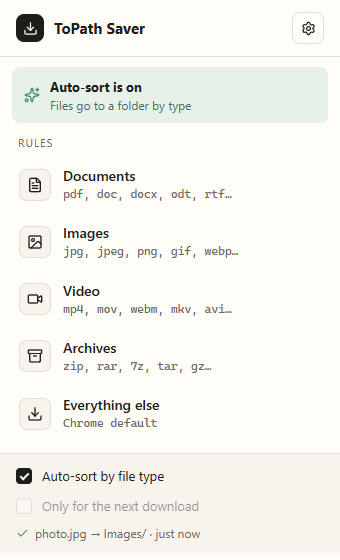
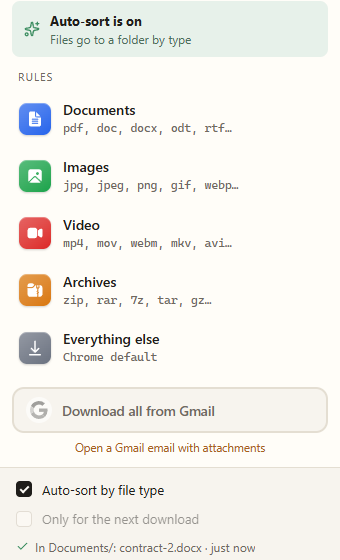
W3-FIX: verified on Windows, screenshots

diff --git a/.bro/state.js b/.bro/state.js
@@ -2,17 +2,17 @@ window.BRO_STATE = {
     "project":  "topath-saver",
     "ver":  "v3.0",
     "mode":  "JOIN",
-    "updated":  "2026-10-13 00:34",
-    "wave":  "W2-RELEASE",
-    "current":  "Авторы и релиз",
-    "turn":  "analyst",
-    "turn_text":  "🧠 аналитик",
-    "todo":  "напиши аналитику: BRO CHECK",
-    "next_stop":  "🛑 Авторы и релиз — сейчас",
-    "done":  2,
-    "total":  5,
-    "pct":  40,
-    "bar":  "▰▰▰▱▱▱▱▱",
+    "updated":  "2026-10-13 02:38",
+    "wave":  "W3-FIX",
+    "current":  "Фикс + Gmail 0.2.0",
+    "turn":  "coder",
+    "turn_text":  "🤖 кодер",
+    "todo":  "ничего — ждём «Готово» от кодера",
+    "next_stop":  "🛑 Фикс + Gmail 0.2.0 — сейчас",
+    "done":  3,
+    "total":  6,
+    "pct":  50,
+    "bar":  "▰▰▰▰▱▱▱▱",
     "road":  [
                  {
                      "id":  "W0-BRIEF",
@@ -29,32 +29,38 @@ window.BRO_STATE = {
                  {
                      "id":  "W2-RELEASE",
                      "title":  "Авторы и релиз",
+                     "status":  "done",
+                     "stop":  true
+                 },
+                 {
+                     "id":  "W3-FIX",
+                     "title":  "Фикс + Gmail 0.2.0",
                      "status":  "run",
                      "stop":  true
                  },
                  {
-                     "id":  "W3-STORE",
+                     "id":  "W4-STORE",
                      "title":  "Web Store",
                      "status":  "todo",
                      "stop":  true
                  },
                  {
-                     "id":  "W4-POLISH",
+                     "id":  "W5-POLISH",
                      "title":  "Полировка",
                      "status":  "todo",
                      "stop":  false
                  }
              ],
     "metrics":  {
-                    "waves":  1,
-                    "first_pass":  "0/1",
+                    "waves":  2,
+                    "first_pass":  "1/2",
                     "false_done":  0,
-                    "minutes":  11,
-                    "wait":  164,
-                    "ptok_task":  1929,
-                    "gh":  9,
+                    "minutes":  6,
+                    "wait":  9,
+                    "ptok_task":  1595,
+                    "gh":  7,
                     "k":  4,
-                    "o":  3
+                    "o":  3.5
                 },
     "waves":  [
                   {
@@ -65,6 +71,15 @@ window.BRO_STATE = {
                       "done":  "5",
                       "defects":  "3",
                       "gh":  "9"
+                  },
+                  {
+                      "wave":  "W2-RELEASE",
+                      "verdict":  "PASS",
+                      "minutes":  6,
+                      "tasks":  "6",
+                      "done":  "6",
+                      "defects":  "0",
+                      "gh":  "5"
                   }
               ]
 };

diff --git a/.bro/STATUS.md b/.bro/STATUS.md
@@ -1,21 +1,23 @@
 # Статус · topath-saver · BRO v3.0
-Обновлено 2026-10-13 00:34 · режим JOIN · волна W2-RELEASE
+Обновлено 2026-10-13 02:38 · режим JOIN · волна W3-FIX
 
-▰▰▰▱▱▱▱▱ **2 из 5 · 40 %** · сейчас «Авторы и релиз» · ход за 🧠 аналитик
+▰▰▰▰▱▱▱▱ **3 из 6 · 50 %** · сейчас «Фикс + Gmail 0.2.0» · ход за 🤖 кодер
 
-**Тебе:** напиши аналитику: BRO CHECK · **Дальше:** 🛑 Авторы и релиз — сейчас
+**Тебе:** ничего — ждём «Готово» от кодера · **Дальше:** 🛑 Фикс + Gmail 0.2.0 — сейчас
 
 ```mermaid
 flowchart LR
   n0["✅ Бриф 🛑"]:::done
   n1["✅ Проверка и запуск"]:::done
   n0 --> n1
-  n2["▶ Авторы и релиз 🛑"]:::run
+  n2["✅ Авторы и релиз 🛑"]:::done
   n1 --> n2
-  n3["○ Web Store 🛑"]:::todo
+  n3["▶ Фикс + Gmail 0.2.0 🛑"]:::run
   n2 --> n3
-  n4["○ Полировка"]:::todo
+  n4["○ Web Store 🛑"]:::todo
   n3 --> n4
+  n5["○ Полировка"]:::todo
+  n4 --> n5
   classDef done fill:#DCFCE7,stroke:#16A34A,color:#16181D
   classDef run fill:#E0E7FF,stroke:#4F46E5,color:#16181D
   classDef wait fill:#FEF3C7,stroke:#D97706,color:#16181D
@@ -26,17 +28,18 @@ flowchart LR
 
 | Показатель | Значение |
 |---|---|
-| 🎯 Принято с первого раза | 0/1 |
+| 🎯 Принято с первого раза | 1/2 |
 | 🙈 Ложные «готово» | 0 |
-| ⏱ Последняя волна: работа / ожидание, мин | 11 / 164 |
-| 🪙 ≈ptok на принятую задачу | 1929 |
-| 🔌 Обращений к GitHub за волну (среднее) | 9 |
+| ⏱ Последняя волна: работа / ожидание, мин | 6 / 9 |
+| 🪙 ≈ptok на принятую задачу | 1595 |
+| 🔌 Обращений к GitHub за волну (среднее) | 7 |
 
-<details><summary>Волны · 1</summary>
+<details><summary>Волны · 2</summary>
 
 | W | verdict | done/tasks | defects | min | GitHub |
 |---|---|---|---|---|---|
 | W1-INIT | PARTIAL | 5/6 | 3 | 11 | 9 |
+| W2-RELEASE | PASS | 6/6 | 0 | 6 | 5 |
 </details>
 
 Страница на ПК: `.bro\progress.html` (двойной щелчок).

diff --git a/.bro/exchange/W3-FIX/02-REPORT.md b/.bro/exchange/W3-FIX/02-REPORT.md
@@ -1,0 +1,21 @@
+---
+wave: W3-FIX · ver: v3.0 · t_start: auto · t_report: auto
+commit: auto · tag: auto · push: auto · bundle: auto · pack: auto · exchange: auto
+tasks: auto · done: auto · gates_first: you · repair: you · proof_ok: auto · proof_req: auto
+diff_files: auto · diff_add: auto · diff_del: auto · out_of_scope: auto · q: auto · contradictions: you
+K1: you · K2: you · K3: you · K4: you · k_why: you · friction_cd: you
+cd_in: auto · cd_out: auto · prompt_weight: auto · an_in_prev: auto · an_out_prev: auto
+---
+# REPORT W3-FIX — <goal>
+<!-- you: gates_first yes|no · repair 0-3 · contradictions N · K1-K4 0|1 (score the TASK: K1 enough data: paths, inputs, key code · K2 no conflict with MAP/SPEC · K3 3-6 tasks of one layer · K4 PASS checkable) · k_why 1 line why a 0, or - · friction_cd one of #unclear-task #no-access #env #invented #too-big #tool-fail, or - · auto = bro finish -->
+## Tasks
+1 ✅ `path:line` — what was done
+## Gates
+lint ✅ · types ✅ · tests 12/12 · build ✅ · stand ✅ · layout 1280/1440/1920 ✅✅✅ · axe ✅ · secrets 0
+## Spots for analyst (3–5)
+`path:line` — what is there
+## Q / contradictions
+- none
+## Out of scope
+- none
+Secrets not opened: yes

diff --git a/.bro/metrics/SUMMARY.md b/.bro/metrics/SUMMARY.md
@@ -1,16 +1,16 @@
-# SUMMARY topath-saver · updated 2026-10-13 00:28 · by tools/bro.ps1 summary
+# SUMMARY topath-saver · updated 2026-10-13 02:38 · by tools/bro.ps1 summary
 | # | indicator | good if | v3.0 |
 |---|---|---|---|
-| 0 | waves (verdict needs >=10) | >=10 | 1 |
-| 1 | accepted first time: PASS / waves | grows | 0/1 (0%) |
+| 0 | waves (verdict needs >=10) | >=10 | 2 |
+| 1 | accepted first time: PASS / waves | grows | 1/2 (50%) |
 | 2 | false done, sum | 0 | 0 |
-| 3 | Owner touches per wave | <=2 + stops | 3 |
+| 3 | Owner touches per wave | <=2 + stops | 2.5 |
 | 4 | Owner fixes: sum / per wave | falls | 0 / 0 |
-| 5 | minutes per wave: work / wait | falls | 11 / 164 |
-| 6 | ptok per accepted task / GitHub calls per wave | falls / <=5 | 1929 / 9 |
+| 5 | minutes per wave: work / wait | falls | 8.5 / 86.5 |
+| 6 | ptok per accepted task / GitHub calls per wave | falls / <=5 | 1595 / 7 |
 | 7 | prompt-caused defects share / avg K (0-4) | falls / grows | 0 / 4 |
 | - | prompt weight START+BOOT, last | stable | 4515 |
-| - | avg O (0-4) | grows | 3 |
+| - | avg O (0-4) | grows | 3.5 |
 
 Top weak rules (P causes): -
 Friction tags: #env x2

diff --git a/.bro/LOG.md b/.bro/LOG.md
@@ -12,3 +12,7 @@ Analyst fix: Vitest globals, `stand` = build + playwright, stand guards, `npm ru
 ## L-003 · 2026-10-13 · W1-INIT · ◐PARTIAL @a43d9c8 · w1-init-done
 #tags: windows green vitest-globals identity apex4coder metrics
 Result: Windows gates green (tsc, vitest 38, build, stand 7/7 real downloads), 7 README screenshots, SYS on helpfulbriefl mirror (.apex-old kept). Defect: commits authored by Apex4Coder global identity → W2 fixes. New: G-P03, D-13.
+
+## L-004 · 2026-10-13 · W2-RELEASE · ✔PASS @4e7ff1a · w2-release-done
+#tags: reset-author force-with-lease release v0.1.0 sha256
+Result: history authors fixed (no Apex4Coder), local identity in P+SYS (D-13), metrics in own SYS, GitHub release v0.1.0 (zip 105 KB + SHA256SUMS) via Actions. Next: Owner smoke test (S4) → W3-STORE.

diff --git a/.bro/MAP.md b/.bro/MAP.md
@@ -54,4 +54,4 @@ tests/stand/extension.spec.ts · real-build stand 01–07 · 0
 </details>
 
 ## §10 Roadmap
-W1-INIT=run:Проверка и запуск; W2-STORE=todo!:Web Store; W3-POLISH=todo:Полировка · next: W1-INIT
+W0-BRIEF=done!:Бриф; W1-INIT=done:Проверка и запуск; W2-RELEASE=done!:Авторы и релиз; W3-FIX=run!:Фикс + Gmail 0.2.0; W4-STORE=todo!:Web Store; W5-POLISH=todo:Полировка · next: W4-STORE after Owner v0.2.0 smoke test

diff --git a/.bro/exchange/W3-FIX/logs/begin.md b/.bro/exchange/W3-FIX/logs/begin.md
@@ -1,0 +1,3 @@
+---
+t_start: 2026-10-13 02:38 · base: 7c296051c5c301e0f8cced2e8da7f008aba8837f
+---

diff --git a/.bro/exchange/W3-FIX/proof/INDEX.md b/.bro/exchange/W3-FIX/proof/INDEX.md
@@ -1,0 +1,3 @@
+# PROOF W3-FIX
+| # | requirement | proof file(s) | ok |
+|---|---|---|---|
